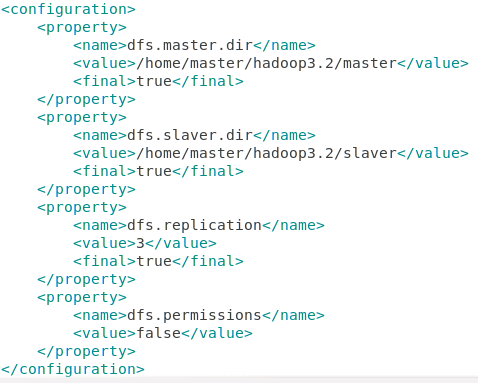
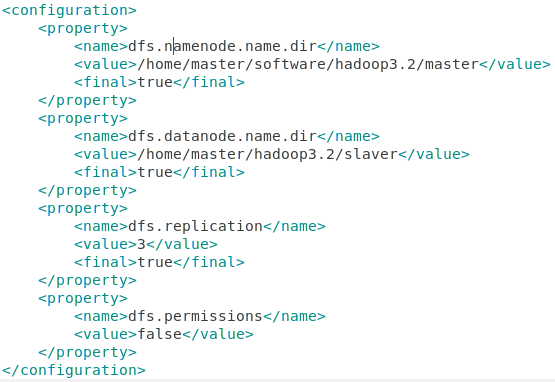
Site updated: 2019-06-28 14:39:27

Changed region(s): [[0.0, 0.0, 0.9958, 1.0], [0.5858, 0.9791, 1.0, 1.0]]

diff --git a/2019/06/24/VitualBox建三台虚拟机Ubuntu18-04试搭建Hadoop3-2-spark2-4/index.html b/2019/06/24/VitualBox建三台虚拟机Ubuntu18-04试搭建Hadoop3-2-spark2-4/index.html
@@ -25,6 +25,9 @@
 <meta property="og:image" content="http://JadenFK.github.io/2019/06/24/VitualBox建三台虚拟机Ubuntu18-04试搭建Hadoop3-2-spark2-4/4.jpg">
 <meta property="og:image" content="http://JadenFK.github.io/2019/06/24/VitualBox建三台虚拟机Ubuntu18-04试搭建Hadoop3-2-spark2-4/7.png">
 <meta property="og:image" content="http://JadenFK.github.io/2019/06/24/VitualBox建三台虚拟机Ubuntu18-04试搭建Hadoop3-2-spark2-4/5.jpg">
+<meta property="og:image" content="http://JadenFK.github.io/2019/06/24/VitualBox建三台虚拟机Ubuntu18-04试搭建Hadoop3-2-spark2-4/16.png">
+<meta property="og:image" content="http://JadenFK.github.io/2019/06/24/VitualBox建三台虚拟机Ubuntu18-04试搭建Hadoop3-2-spark2-4/7.jpg">
+<meta property="og:image" content="http://JadenFK.github.io/2019/06/24/VitualBox建三台虚拟机Ubuntu18-04试搭建Hadoop3-2-spark2-4/18.png">
 <meta property="og:image" content="http://JadenFK.github.io/2019/06/24/VitualBox建三台虚拟机Ubuntu18-04试搭建Hadoop3-2-spark2-4/8.png">
 <meta property="og:image" content="http://JadenFK.github.io/2019/06/24/VitualBox建三台虚拟机Ubuntu18-04试搭建Hadoop3-2-spark2-4/9.png">
 <meta property="og:image" content="http://JadenFK.github.io/2019/06/24/VitualBox建三台虚拟机Ubuntu18-04试搭建Hadoop3-2-spark2-4/6.jpg">
@@ -32,9 +35,19 @@
 <meta property="og:image" content="http://JadenFK.github.io/2019/06/24/VitualBox建三台虚拟机Ubuntu18-04试搭建Hadoop3-2-spark2-4/11.png">
 <meta property="og:image" content="http://JadenFK.github.io/2019/06/24/VitualBox建三台虚拟机Ubuntu18-04试搭建Hadoop3-2-spark2-4/12.png">
 <meta property="og:image" content="http://JadenFK.github.io/2019/06/24/VitualBox建三台虚拟机Ubuntu18-04试搭建Hadoop3-2-spark2-4/13.png">
+<meta property="og:image" content="http://JadenFK.github.io/2019/06/24/VitualBox建三台虚拟机Ubuntu18-04试搭建Hadoop3-2-spark2-4/17.png">
 <meta property="og:image" content="http://JadenFK.github.io/2019/06/24/VitualBox建三台虚拟机Ubuntu18-04试搭建Hadoop3-2-spark2-4/14.png">
 <meta property="og:image" content="http://JadenFK.github.io/2019/06/24/VitualBox建三台虚拟机Ubuntu18-04试搭建Hadoop3-2-spark2-4/15.png">
-<meta property="og:updated_time" content="2019-06-25T06:31:30.654Z">
+<meta property="og:image" content="http://JadenFK.github.io/2019/06/24/VitualBox建三台虚拟机Ubuntu18-04试搭建Hadoop3-2-spark2-4/19.png">
+<meta property="og:image" content="http://JadenFK.github.io/2019/06/24/VitualBox建三台虚拟机Ubuntu18-04试搭建Hadoop3-2-spark2-4/8.jpg">
+<meta property="og:image" content="http://JadenFK.github.io/2019/06/24/VitualBox建三台虚拟机Ubuntu18-04试搭建Hadoop3-2-spark2-4/20.png">
+<meta property="og:image" content="http://JadenFK.github.io/2019/06/24/VitualBox建三台虚拟机Ubuntu18-04试搭建Hadoop3-2-spark2-4/21.png">
+<meta property="og:image" content="http://JadenFK.github.io/2019/06/24/VitualBox建三台虚拟机Ubuntu18-04试搭建Hadoop3-2-spark2-4/9.jpg">
+<meta property="og:image" content="http://JadenFK.github.io/2019/06/24/VitualBox建三台虚拟机Ubuntu18-04试搭建Hadoop3-2-spark2-4/21.png">
+<meta property="og:image" content="http://JadenFK.github.io/2019/06/24/VitualBox建三台虚拟机Ubuntu18-04试搭建Hadoop3-2-spark2-4/23.png">
+<meta property="og:image" content="http://JadenFK.github.io/2019/06/24/VitualBox建三台虚拟机Ubuntu18-04试搭建Hadoop3-2-spark2-4/24.png">
+<meta property="og:image" content="http://JadenFK.github.io/2019/06/24/VitualBox建三台虚拟机Ubuntu18-04试搭建Hadoop3-2-spark2-4/25.png">
+<meta property="og:updated_time" content="2019-06-28T06:38:36.319Z">
 <meta name="twitter:card" content="summary">
 <meta name="twitter:title" content="VitualBox建三台虚拟机Ubuntu18.04试搭建Hadoop3.2+spark2.4">
 <meta name="twitter:description" content="由于条件限制，先在虚拟机上试安装Hadoop3.2+spark2.4安装虚拟机的心酸请看我另外一个博客：虚拟机VirtualBox-Ubuntu18.04和主机win10共享文件 里提到的这里装好了四台虚拟机，Master、Salver1、Slaver2、Slaver3，连接网络，结果四个虚拟机的Ip地址一样，这就尬了。找度娘要解决办法呗，首先修改了虚拟机网络的连接方式为：桥接网卡，如下">
@@ -144,7 +157,10 @@
 <p><img src="http://JadenFK.github.io/2019/06/24/VitualBox建三台虚拟机Ubuntu18-04试搭建Hadoop3-2-spark2-4/2.jpg" alt="2"><br>登录slaver1电脑查看是否拷贝过来了，然后把slaver1节点的ssh密钥加入到authorized_keys中去<br><img src="http://JadenFK.github.io/2019/06/24/VitualBox建三台虚拟机Ubuntu18-04试搭建Hadoop3-2-spark2-4/6.png" alt="6"></p>
 <h4 id="3-把电脑slaver1的authorized-keys拷贝到下个节点-slaver2-重复上面两步，接着slaver2拷贝到slaver3，把slaver3的ssh密钥加到authorized-keys"><a href="#3-把电脑slaver1的authorized-keys拷贝到下个节点-slaver2-重复上面两步，接着slaver2拷贝到slaver3，把slaver3的ssh密钥加到authorized-keys" class="headerlink" title="3  把电脑slaver1的authorized_keys拷贝到下个节点(slaver2)重复上面两步，接着slaver2拷贝到slaver3，把slaver3的ssh密钥加到authorized_keys"></a>3  把电脑slaver1的authorized_keys拷贝到下个节点(slaver2)重复上面两步，接着slaver2拷贝到slaver3，把slaver3的ssh密钥加到authorized_keys</h4><p><img src="http://JadenFK.github.io/2019/06/24/VitualBox建三台虚拟机Ubuntu18-04试搭建Hadoop3-2-spark2-4/3.jpg" alt="3"><br><img src="http://JadenFK.github.io/2019/06/24/VitualBox建三台虚拟机Ubuntu18-04试搭建Hadoop3-2-spark2-4/4.jpg" alt="4"><br><img src="http://JadenFK.github.io/2019/06/24/VitualBox建三台虚拟机Ubuntu18-04试搭建Hadoop3-2-spark2-4/7.png" alt="7"></p>
 <h4 id="4-把最终的slaver3的authorized-keys复制到master、slaver1、slaver2三台电脑上，Ok"><a href="#4-把最终的slaver3的authorized-keys复制到master、slaver1、slaver2三台电脑上，Ok" class="headerlink" title="4  把最终的slaver3的authorized_keys复制到master、slaver1、slaver2三台电脑上，Ok"></a>4  把最终的slaver3的authorized_keys复制到master、slaver1、slaver2三台电脑上，Ok</h4><p><img src="http://JadenFK.github.io/2019/06/24/VitualBox建三台虚拟机Ubuntu18-04试搭建Hadoop3-2-spark2-4/5.jpg" alt="5"></p>
-<h3 id="3-验证免密登录成功"><a href="#3-验证免密登录成功" class="headerlink" title="3 验证免密登录成功"></a>3 验证免密登录成功</h3><p>其中出现了”小插曲”,master连接slaver1、slaver2、slaver3都不行，需要输入密码，而三者连谁都行，不需要输入密码，然后百度找原因，有说authorized_keys的读写权限没有真的实现，要怎么怎么做，我去打开我的authorized_keys看了下，尼玛，两个slaver1的公钥，一个slaver2一个slaver3的公钥，没有master节点的公钥，明明第一个就加进去的master啊，咱也不知道，咱也不敢问，只能去打开master的id_rsa.pub，复制到每个电脑的authorized_keys里，Ok<br>还有就是警告：The authenticity of host 192.168.0.xxx can’t be established.<br>处理：打开/etc/ssh/ssh_config文件，在其后面加入下面两行代码，然后重启服务sshd</p>
+<h3 id="3-验证免密登录成功"><a href="#3-验证免密登录成功" class="headerlink" title="3 验证免密登录成功"></a>3 验证免密登录成功</h3><p><img src="http://JadenFK.github.io/2019/06/24/VitualBox建三台虚拟机Ubuntu18-04试搭建Hadoop3-2-spark2-4/16.png" alt="16"><br>此时登录需要ssh slaver1@Slaver1 即ssh  要登陆的主机的用户名@要登陆的主机名，若想直接ssh Slaver1 即ssh 要登陆的主机名则需要修改.ssh/config,若没有新建一个，如下</p>
+<table><td bgcolor="#000">sudo gedit .ssh/config </td></table>
+
+<p><img src="http://JadenFK.github.io/2019/06/24/VitualBox建三台虚拟机Ubuntu18-04试搭建Hadoop3-2-spark2-4/7.jpg" alt="7"><br><img src="http://JadenFK.github.io/2019/06/24/VitualBox建三台虚拟机Ubuntu18-04试搭建Hadoop3-2-spark2-4/18.png" alt="18"><br>其中出现了”小插曲”,master连接slaver1、slaver2、slaver3都不行，需要输入密码，而三者连谁都行，不需要输入密码，然后百度找原因，有说authorized_keys的读写权限没有真的实现，要怎么怎么做，我去打开我的authorized_keys看了下，尼玛，两个slaver1的公钥，一个slaver2一个slaver3的公钥，没有master节点的公钥，明明第一个就加进去的master啊，咱也不知道，咱也不敢问，只能去打开master的id_rsa.pub，复制到每个电脑的authorized_keys里，Ok<br>还有就是警告：The authenticity of host 192.168.0.xxx can’t be established.<br>处理：打开/etc/ssh/ssh_config文件，在其后面加入下面两行代码，然后重启服务sshd</p>
 <table><td bgcolor="#000">sudo gedit /etc/ssh/ssh_config    //打开ssh_config文件</td></table><br>    StrictHostKeyChecking no<br>    UserKnownHostsFile /dev/null<br><table><td bgcolor="#000">sudo service sshd restart  //重启sshd服务</td></table>
 
 <p><img src="http://JadenFK.github.io/2019/06/24/VitualBox建三台虚拟机Ubuntu18-04试搭建Hadoop3-2-spark2-4/8.png" alt="8"></p>
@@ -154,24 +170,47 @@
 
 <p><img src="http://JadenFK.github.io/2019/06/24/VitualBox建三台虚拟机Ubuntu18-04试搭建Hadoop3-2-spark2-4/6.jpg" alt="6"></p>
 <h3 id="配置Hadoop环境变量"><a href="#配置Hadoop环境变量" class="headerlink" title="配置Hadoop环境变量"></a>配置Hadoop环境变量</h3><p>配置的JDK环境变量不变，如下<br><img src="http://JadenFK.github.io/2019/06/24/VitualBox建三台虚拟机Ubuntu18-04试搭建Hadoop3-2-spark2-4/10.png" alt="10"><br>配置Hadoop环境变量，在JDK的环境变量下面添加即可<br><img src="http://JadenFK.github.io/2019/06/24/VitualBox建三台虚拟机Ubuntu18-04试搭建Hadoop3-2-spark2-4/11.png" alt="11"><br>可我看的书(Python+Spark2.0+Hadoop机器学习与大数据实战 林大贵著)上说是：运行Hadoop必须设置很多环境变量，可是如果每次登录时都必须重新设置就会很麻烦，因此我们可以在~/.bashrc文件中设置每次登录时都会自动运行一次环境变量设置。<br>我懵懵的，人家都在/etc/profile里设置，可他在~/.bashrc中设置，还有充分的理由，虽说我没太看懂这理由。然后百度了一下，说是<br>    在/etc/profile中配置的环境变量只会在会话开始读取一次<br>    而在/etc/bashrc中配置的环境变量则每次打开终端都会读取<br>我懂了，就是在/etc/profile文件中配置会出现问题，那我也写在/etc/bashrc中得了，还是书中自有黄金屋啊，书中代码，即我写入~/.bashrc的代码<br>    export JAVA_HOME=/home/master/software/jdk-11.0.3<br>    export HADOOP_HOME=/usr/local/hadoop<br>    export PATH=$PATH:$HADOOP_HOME/bin<br>    export PATH=$PATH:$HADOOP_HOME/sbin<br>    export HADOOP_MAPRED_HOME=$HADOOP_HOME<br>    export HADOOP_COMMON_HOME=$HADOOP_HOME<br>    export HADOOP_HDFS_HOME=$HADOOP_HOME<br>    export YARN_HOME=$HADOOP_HOME<br>    export HADOOP_COMMON_LIB_NATIVE_DIR=$HADOOP_HOME/lib/native<br>    export HADOOP_OPTS=”-Djava.library.path=$HADOOP_HOME/lib”<br>    export JAVA_LIBRARY_PATH=$HADOOP_HOME/lib/native:$JAVA_LIBRARY_PATH<br>    export PATH=$JAVA_HOME/bin:$PATH</p>
-<h2 id="第五步-修改usr-local-hadoop-etc-Hadoop下的Hadoop-env-sh、core-site-xml、hdfs-site-xml、mapred-site-xml、workers、yarn-site-xml六个"><a href="#第五步-修改usr-local-hadoop-etc-Hadoop下的Hadoop-env-sh、core-site-xml、hdfs-site-xml、mapred-site-xml、workers、yarn-site-xml六个" class="headerlink" title="第五步 修改usr/local/hadoop/etc/Hadoop下的Hadoop-env.sh、core-site.xml、hdfs-site.xml、mapred-site.xml、workers、yarn-site.xml六个"></a>第五步 修改usr/local/hadoop/etc/Hadoop下的Hadoop-env.sh、core-site.xml、hdfs-site.xml、mapred-site.xml、workers、yarn-site.xml六个</h2><p>我在博客上看到的都说是五个配置文件修改，有的少了yarn-site.xml有的少了hdoop-env.sh，这里我都配置一下，万一用到了其功能呢。但是还是要感谢博主和作者<br><a href="https://www.cnblogs.com/caiyisen/p/7373512.html" target="_blank" rel="noopener">https://www.cnblogs.com/caiyisen/p/7373512.html</a>  <a href="https://blog.csdn.net/u014636511/article/details/80171002" target="_blank" rel="noopener">https://blog.csdn.net/u014636511/article/details/80171002</a>  <a href="https://www.cnblogs.com/laov/p/3421479.html" target="_blank" rel="noopener">https://www.cnblogs.com/laov/p/3421479.html</a><br>hadoop-env.sh     添加Java安装的地址</p>
-<table><td bgcolor="#000">sudo gedit /usr/local/hadoop/etc/hadoop/hadoop-env.sh</td></table><br>export JAVA_HOME=/home/slaver2/softwarek-11.0.3<br>core-site.xml    fs.default.name：设置HDFS的默认名称   hadoop.tmp.dir：设置一个临时目录，用来存放每次运行的作业job的信息（书上没设置）<br><table><td bgcolor="#000">sudo gedit /usr/local/hadoop/etc/hadoop/core-site.xml</td></table>
+<h2 id="第五步-修改usr-local-hadoop-etc-Hadoop下的Hadoop-env-sh、core-site-xml、hdfs-site-xml、mapred-site-xml、workers、yarn-site-xml六个"><a href="#第五步-修改usr-local-hadoop-etc-Hadoop下的Hadoop-env-sh、core-site-xml、hdfs-site-xml、mapred-site-xml、workers、yarn-site-xml六个" class="headerlink" title="第五步 修改usr/local/hadoop/etc/Hadoop下的Hadoop-env.sh、core-site.xml、hdfs-site.xml、mapred-site.xml、workers、yarn-site.xml六个"></a>第五步 修改usr/local/hadoop/etc/Hadoop下的Hadoop-env.sh、core-site.xml、hdfs-site.xml、mapred-site.xml、workers、yarn-site.xml六个</h2><p>首先，每台虚拟机都要配置这几个文件，我在博客上看到的都说是五个配置文件修改，有的少了yarn-site.xml有的少了hdoop-env.sh，这里我都配置一下，万一用到了其功能呢。但是还是要感谢博主和作者<br><a href="https://www.cnblogs.com/caiyisen/p/7373512.html" target="_blank" rel="noopener">https://www.cnblogs.com/caiyisen/p/7373512.html</a>  <a href="https://blog.csdn.net/u014636511/article/details/80171002" target="_blank" rel="noopener">https://blog.csdn.net/u014636511/article/details/80171002</a>  <a href="https://www.cnblogs.com/laov/p/3421479.html" target="_blank" rel="noopener">https://www.cnblogs.com/laov/p/3421479.html</a><br>hadoop-env.sh     添加Java安装的地址</p>
+<table><td bgcolor="#000">sudo gedit /usr/local/hadoop/etc/hadoop/hadoop-env.sh</td></table><br>export JAVA_HOME=/home/master/software/jdk-11.0.3<br>core-site.xml    fs.default.name：设置HDFS的默认名称   hadoop.tmp.dir：设置一个临时目录，用来存放每次运行的作业job的信息（书上没设置）<br><table><td bgcolor="#000">sudo gedit /usr/local/hadoop/etc/hadoop/core-site.xml</td></table>
 
 <p><img src="http://JadenFK.github.io/2019/06/24/VitualBox建三台虚拟机Ubuntu18-04试搭建Hadoop3-2-spark2-4/12.png" alt="12"><br>hdfs-site.xml  dfs.replication:设置blocks副本数量，dfs.master.dir：设置master数据存储目录,会在master主机上创建，dfs.slaver.dir：设置slaver数据存储目录，会在slaver1、slaver2、slaver3从机上都创建</p>
 <table><td bgcolor="#000">sudo gedit /usr/local/hadoop/etc/hadoop/hdfs-site.xml</td></table>
 
-<p><img src="http://JadenFK.github.io/2019/06/24/VitualBox建三台虚拟机Ubuntu18-04试搭建Hadoop3-2-spark2-4/13.png" alt="13"><br>mapred-site.xml  mapreduce.framework.name:设置mapreduce的框架为yarn</p>
+<p><img src="http://JadenFK.github.io/2019/06/24/VitualBox建三台虚拟机Ubuntu18-04试搭建Hadoop3-2-spark2-4/13.png" alt="13"><br><img src="http://JadenFK.github.io/2019/06/24/VitualBox建三台虚拟机Ubuntu18-04试搭建Hadoop3-2-spark2-4/17.png" alt="17"><br>mapred-site.xml  mapreduce.framework.name:设置mapreduce的框架为yarn</p>
 <table><td bgcolor="#000">sudo gedit /usr/local/hadoop/etc/hadoop/mapred-site.xml</td></table>
 
 <p><img src="http://JadenFK.github.io/2019/06/24/VitualBox建三台虚拟机Ubuntu18-04试搭建Hadoop3-2-spark2-4/14.png" alt="14"><br>yarn-site.xml</p>
 <table><td bgcolor="#000">sudo gedit /usr/local/hadoop/etc/hadoop/mapred-site.xml</td></table>
 
 <p><img src="http://JadenFK.github.io/2019/06/24/VitualBox建三台虚拟机Ubuntu18-04试搭建Hadoop3-2-spark2-4/15.png" alt="15"></p>
+<p>workers  把三天从机的主机名加进来即可</p>
+<p>格式化namenode，并且启动集群</p>
+<table><td bgcolor="#000">hadoop namenode -format     //格式化namenode</td></table>
+
+<p><img src="http://JadenFK.github.io/2019/06/24/VitualBox建三台虚拟机Ubuntu18-04试搭建Hadoop3-2-spark2-4/19.png" alt="19"><br>启动集群，下面是一些启动的命令，</p>
+<p><table><td bgcolor="#000">start-all.sh //启动所有Hadoop守护进程，有NameNode、SecondaryNameNode、DataNode、ResourceManager、NodeManager</td></table></p>
+<p><table><td bgcolor="#000">stop-all.sh     //停止所有的Hadoop守护进程，即start-all.sh开启的</td></table></p>
+<p><table><td bgcolor="#000">start-dfs.sh     //启动Hadoop HDFS守护进程，有NameNode、SecondaNameNode、DataNode</td></table></p>
+<p><table><td bgcolor="#000">stop-dfs.sh     //停止Hadoop HDFS守护进程</td></table></p>
+<p><table><td bgcolor="#000">hdfs –daemon start namenode     //单独启动namenode进程</td></table></p>
+<p><table><td bgcolor="#000">hdfs –daemon stop namenode    //单独停止namenode进程</td></table></p>
+<p><table><td bgcolor="#000">hdfs –daemon start datanode     //单独启动datanode</td></table></p>
+<p><table><td bgcolor="#000">hdfs –daemon stop datanode     //单独停止datanode</td></table></p>
+<p><table><td bgcolor="#000">hdfs –daemon start secondarynamenode     //单独启动secondarynamenode</td></table></p>
+<p><table><td bgcolor="#000">hdfs –daemon stop secondarynamenode   //单独停止secondarynamenode</td></table></p>
+<p><table><td bgcolor="#000">start-yarn.sh     //启动ResourceManager、nodeManager进程</td></table></p>
+<p><table><td bgcolor="#000">stop-yarn.sh     //停止ResourceManager、nodeManager进程</td></table></p>
+<p><table><td bgcolor="#000">yarn -daemon start resourcemanager     //单独启动ResourceManager进程</td></table></p>
+<p><table><td bgcolor="#000">yarn -daemon stop resourcemanager     //单独停止ResourceManager进程</td></table></p>
+<p><table><td bgcolor="#000">yarn -daemon start nodemanager  //单独启动nodeManager进程</td></table></p>
+<p><table><td bgcolor="#000">yarn -daemon stop nodemanager     //单独停止nodeManager进程</td></table><br>版本2的有所不同，请看下面的博客，感谢博主 <a href="https://www.cnblogs.com/xym4869/p/8821312.html" target="_blank" rel="noopener">https://www.cnblogs.com/xym4869/p/8821312.html</a><br>修改start-dfs.sh、start-yarn.sh、stop-dfs.sh、stop-yarn.sh<br>这一步不用修改了，在百度上有的修改是因为一开始配置Hadoop都是用的root用户，所以需要在start-dfs.sh和stop-dfs.sh前面加上<br>HDFS_DATANODE_USER=root<br>HADOOP_SECURE_DN_USER=hdfs<br>HDFS_NAMENODE_USER=root<br>HDFS_SECONDARYNAMENODE_USER=root<br>在start-yarn.sh和stop-yarn.sh前面加上<br>YARN_RESOURCEMANAGER_USER=root<br>HADOOP_SECURE_DN_USER=yarn<br>YARN_NODEMANAGER_USER=root<br>结果start-all.sh后，没有ResourceManager、NodeManager进程，急死了，搞了好长时间，去查看日志，发现</p>
+<p><img src="http://JadenFK.github.io/2019/06/24/VitualBox建三台虚拟机Ubuntu18-04试搭建Hadoop3-2-spark2-4/8.jpg" alt="8"><br>百度到原因，JDK版本太高，某些java的API被禁什么玩意的，解决方法有二，<br>一：修改/etc/hadoop/yarn-env.sh<br>export YARN_RESOURCEMANAGER_OPTS=”–add-modules=ALL-SYSTEM”<br>export YARN_NODEMANAGER_OPTS=”–add-modules=ALL-SYSTEM”<br>二：下载JDK8，把JDK11换成JDK8<br>我肯定首先修改配置文件啊，这比换JDK简单点，但是…..不行，无奈之下去下载JDK8，这时候下载JDK还需要注册Oracle的账号，没办法，注册吧<br>然后下载JDK，更换四个节点的JDK，很激动，应该可以了吧，这次不能再出事了吧，启动着，先去厕所。。。。回来之后，很激动的jps，尼玛，还是没有，打开日志文件，又Error<br><img src="http://JadenFK.github.io/2019/06/24/VitualBox建三台虚拟机Ubuntu18-04试搭建Hadoop3-2-spark2-4/20.png" alt="20"><br>找解决办法吧，也没招啊，感谢下面两个作者<br><a href="http://www.pianshen.com/article/7314336061/" target="_blank" rel="noopener">http://www.pianshen.com/article/7314336061/</a>      <a href="https://inote.xin/182.html" target="_blank" rel="noopener">https://inote.xin/182.html</a><br>只能把四个节点的Hadoop删掉，重新配置<br>然后再start-all.sh，老天爷不能再错了吧。。。。。。。。。。。唉，皇天不负有心人啊，搞了一个多周的Hadoop+spark搭建，终于完成了Hadoop的搭建，醉了，这个JDK啊<br>解决上述错误期间，还把Hadoop的配置改了改，大概按照书上的改的，具体如下<br>Master<br>hadoop-env.sh<br>export JAVA_HOME=/home/master/software/jdk1.8.0_211<br>core-site.xml 没改变<br>hdfs-site.xml<br><img src="http://JadenFK.github.io/2019/06/24/VitualBox建三台虚拟机Ubuntu18-04试搭建Hadoop3-2-spark2-4/21.png" alt="21"><br>mapred-site.xml 没改变<br>yarn-site.xml<br><img src="http://JadenFK.github.io/2019/06/24/VitualBox建三台虚拟机Ubuntu18-04试搭建Hadoop3-2-spark2-4/9.jpg" alt="9"><br>workers 没改变</p>
+<p>Slaver1-3<br>hadoop-env.sh<br>export JAVA_HOME=/home/slaver1/software/jdk1.8.0_211        slaver后的数字随节点变<br>core-site.xml<br><img src="http://JadenFK.github.io/2019/06/24/VitualBox建三台虚拟机Ubuntu18-04试搭建Hadoop3-2-spark2-4/21.png" alt="22"><br>hdfs-site.xml<br><img src="http://JadenFK.github.io/2019/06/24/VitualBox建三台虚拟机Ubuntu18-04试搭建Hadoop3-2-spark2-4/23.png" alt="23"><br>mapred-site.xml<br><img src="http://JadenFK.github.io/2019/06/24/VitualBox建三台虚拟机Ubuntu18-04试搭建Hadoop3-2-spark2-4/24.png" alt="24"><br>yarn-site.xml<br><img src="http://JadenFK.github.io/2019/06/24/VitualBox建三台虚拟机Ubuntu18-04试搭建Hadoop3-2-spark2-4/25.png" alt="25"><br>workers 添加上另外三个计算机的名即可</p>
 
       
     </div>
     <footer class="article-footer">
-      <a data-url="http://yoursite.com/2019/06/24/VitualBox建三台虚拟机Ubuntu18-04试搭建Hadoop3-2-spark2-4/" data-id="cjxbfmppv001grk7kaxj4ib8q" class="article-share-link">分享</a>
+      <a data-url="http://yoursite.com/2019/06/24/VitualBox建三台虚拟机Ubuntu18-04试搭建Hadoop3-2-spark2-4/" data-id="cjxfq76sc001atg7kfpclg80r" class="article-share-link">分享</a>
       
       
   <ul class="article-tag-list"><li class="article-tag-list-item"><a class="article-tag-list-link" href="/tags/Hadoop/">Hadoop</a></li></ul>

diff --git a/page/2/index.html b/page/2/index.html
@@ -118,7 +118,7 @@
       
     </div>
     <footer class="article-footer">
-      <a data-url="http://yoursite.com/2019/03/02/Mybatis-多表连接异常-There-is-no-getter-for-property-named-vg-province-production-in-com-edu-cau-orm-VgProvinceProduction/" data-id="cjxbfmpov0009rk7kjilqmoek" class="article-share-link">分享</a>
+      <a data-url="http://yoursite.com/2019/03/02/Mybatis-多表连接异常-There-is-no-getter-for-property-named-vg-province-production-in-com-edu-cau-orm-VgProvinceProduction/" data-id="cjxfq76pv000ctg7kpyqnfkhm" class="article-share-link">分享</a>
       
       
   <ul class="article-tag-list"><li class="article-tag-list-item"><a class="article-tag-list-link" href="/tags/SSM/">SSM</a></li></ul>
@@ -173,7 +173,7 @@
       
     </div>
     <footer class="article-footer">
-      <a data-url="http://yoursite.com/2019/03/02/MySql远程连接，1045-Access-denied-for-user-root-DESKTOP-I7JQRSH-using-password-YES/" data-id="cjxbfmpon0005rk7k7okj7e8n" class="article-share-link">分享</a>
+      <a data-url="http://yoursite.com/2019/03/02/MySql远程连接，1045-Access-denied-for-user-root-DESKTOP-I7JQRSH-using-password-YES/" data-id="cjxfq76pl0009tg7khh8079wq" class="article-share-link">分享</a>
       
       
   <ul class="article-tag-list"><li class="article-tag-list-item"><a class="article-tag-list-link" href="/tags/MySql/">MySql</a></li></ul>
@@ -228,7 +228,7 @@
       
     </div>
     <footer class="article-footer">
-      <a data-url="http://yoursite.com/2019/01/17/eclipse-hibernate逆向生成-java、Dao、-hbm-xml/" data-id="cjxbfmpp7000qrk7krvi25rdc" class="article-share-link">分享</a>
+      <a data-url="http://yoursite.com/2019/01/17/eclipse-hibernate逆向生成-java、Dao、-hbm-xml/" data-id="cjxfq76qx000ntg7ksh1hay7u" class="article-share-link">分享</a>
       
       
   <ul class="article-tag-list"><li class="article-tag-list-item"><a class="article-tag-list-link" href="/tags/eclipse/">eclipse</a></li></ul>
@@ -283,7 +283,7 @@
       
     </div>
     <footer class="article-footer">
-      <a data-url="http://yoursite.com/2019/01/17/import了项目后eclipse第一次配置Tomcat/" data-id="cjxbfmpp9000srk7k0vik3gmf" class="article-share-link">分享</a>
+      <a data-url="http://yoursite.com/2019/01/17/import了项目后eclipse第一次配置Tomcat/" data-id="cjxfq76r1000qtg7kzan1aau1" class="article-share-link">分享</a>
       
       
   <ul class="article-tag-list"><li class="article-tag-list-item"><a class="article-tag-list-link" href="/tags/eclipse/">eclipse</a></li></ul>
@@ -338,7 +338,7 @@
       
     </div>
     <footer class="article-footer">
-      <a data-url="http://yoursite.com/2019/01/15/整MyBatis逆向工程时遇见一个气死人的小问题/" data-id="cjxbfmppf000yrk7kvuxcseii" class="article-share-link">分享</a>
+      <a data-url="http://yoursite.com/2019/01/15/整MyBatis逆向工程时遇见一个气死人的小问题/" data-id="cjxfq76ro000xtg7kekhs1kz2" class="article-share-link">分享</a>
       
       
   <ul class="article-tag-list"><li class="article-tag-list-item"><a class="article-tag-list-link" href="/tags/SSM/">SSM</a></li></ul>
@@ -394,7 +394,7 @@
       
     </div>
     <footer class="article-footer">
-      <a data-url="http://yoursite.com/2019/01/08/Tomcat-端口占用问题/" data-id="cjxbfmpoy000crk7kpay3yqj6" class="article-share-link">分享</a>
+      <a data-url="http://yoursite.com/2019/01/08/Tomcat-端口占用问题/" data-id="cjxfq76ph0007tg7k54o0ains" class="article-share-link">分享</a>
       
       
   <ul class="article-tag-list"><li class="article-tag-list-item"><a class="article-tag-list-link" href="/tags/Java/">Java</a></li></ul>
@@ -451,7 +451,7 @@
       
     </div>
     <footer class="article-footer">
-      <a data-url="http://yoursite.com/2018/12/27/SVN的搭建/" data-id="cjxbfmpoq0007rk7kbimprb64" class="article-share-link">分享</a>
+      <a data-url="http://yoursite.com/2018/12/27/SVN的搭建/" data-id="cjxfq76pe0006tg7ky0jbmne9" class="article-share-link">分享</a>
       
       
   <ul class="article-tag-list"><li class="article-tag-list-item"><a class="article-tag-list-link" href="/tags/版本控制工具/">版本控制工具</a></li></ul>
@@ -508,7 +508,7 @@
       
     </div>
     <footer class="article-footer">
-      <a data-url="http://yoursite.com/2018/12/22/在Github上速搭建你自己的博客，让自己拥有一个网站吧/" data-id="cjxbfmppe000xrk7ke9e407aa" class="article-share-link">分享</a>
+      <a data-url="http://yoursite.com/2018/12/22/在Github上速搭建你自己的博客，让自己拥有一个网站吧/" data-id="cjxfq76rq000ytg7kzq2xuvmm" class="article-share-link">分享</a>
       
       
   <ul class="article-tag-list"><li class="article-tag-list-item"><a class="article-tag-list-link" href="/tags/github/">github</a></li></ul>
@@ -565,7 +565,7 @@
       
     </div>
     <footer class="article-footer">
-      <a data-url="http://yoursite.com/2018/12/22/搭建博客问题总结/" data-id="cjxbfmppg0010rk7ks9ydzrx0" class="article-share-link">分享</a>
+      <a data-url="http://yoursite.com/2018/12/22/搭建博客问题总结/" data-id="cjxfq76s20011tg7kcau7hfi3" class="article-share-link">分享</a>
       
       
   <ul class="article-tag-list"><li class="article-tag-list-item"><a class="article-tag-list-link" href="/tags/github/">github</a></li></ul>
@@ -623,7 +623,7 @@
       
     </div>
     <footer class="article-footer">
-      <a data-url="http://yoursite.com/2018/12/19/hello-world/" data-id="cjxbfmpp5000lrk7kb1bo74ss" class="article-share-link">分享</a>
+      <a data-url="http://yoursite.com/2018/12/19/hello-world/" data-id="cjxfq76re000utg7kiz4v9a75" class="article-share-link">分享</a>
       
       
     </footer>

diff --git a/index.html b/index.html
@@ -118,7 +118,7 @@
       
     </div>
     <footer class="article-footer">
-      <a data-url="http://yoursite.com/2019/06/24/VitualBox建三台虚拟机Ubuntu18-04试搭建Hadoop3-2-spark2-4/" data-id="cjxbfmppv001grk7kaxj4ib8q" class="article-share-link">分享</a>
+      <a data-url="http://yoursite.com/2019/06/24/VitualBox建三台虚拟机Ubuntu18-04试搭建Hadoop3-2-spark2-4/" data-id="cjxfq76sc001atg7kfpclg80r" class="article-share-link">分享</a>
       
       
   <ul class="article-tag-list"><li class="article-tag-list-item"><a class="article-tag-list-link" href="/tags/Hadoop/">Hadoop</a></li></ul>
@@ -174,7 +174,7 @@
       
     </div>
     <footer class="article-footer">
-      <a data-url="http://yoursite.com/2019/06/21/虚拟机VirtualBox-Ubuntu18-04和主机win10共享文件/" data-id="cjxbfmppj0015rk7keot45rif" class="article-share-link">分享</a>
+      <a data-url="http://yoursite.com/2019/06/21/虚拟机VirtualBox-Ubuntu18-04和主机win10共享文件/" data-id="cjxfq76s40013tg7k0u8ppecm" class="article-share-link">分享</a>
       
       
   <ul class="article-tag-list"><li class="article-tag-list-item"><a class="article-tag-list-link" href="/tags/Linux/">Linux</a></li></ul>
@@ -229,7 +229,7 @@
       
     </div>
     <footer class="article-footer">
-      <a data-url="http://yoursite.com/2019/06/19/Ubuntu-删除用户/" data-id="cjxbfmpp3000grk7ka00fbjnw" class="article-share-link">分享</a>
+      <a data-url="http://yoursite.com/2019/06/19/Ubuntu-删除用户/" data-id="cjxfq76ps000btg7krhtwlsrt" class="article-share-link">分享</a>
       
       
   <ul class="article-tag-list"><li class="article-tag-list-item"><a class="article-tag-list-link" href="/tags/Linux/">Linux</a></li></ul>
@@ -287,7 +287,7 @@
       
     </div>
     <footer class="article-footer">
-      <a data-url="http://yoursite.com/2019/06/14/Ubunt18-0-4安装Mysql及Navicat/" data-id="cjxbfmpp0000drk7k13m0tu6z" class="article-share-link">分享</a>
+      <a data-url="http://yoursite.com/2019/06/14/Ubunt18-0-4安装Mysql及Navicat/" data-id="cjxfq76q0000ftg7kcb3vxigj" class="article-share-link">分享</a>
       
       
   <ul class="article-tag-list"><li class="article-tag-list-item"><a class="article-tag-list-link" href="/tags/Linux/">Linux</a></li></ul>
@@ -344,7 +344,7 @@
       
     </div>
     <footer class="article-footer">
-      <a data-url="http://yoursite.com/2019/06/13/Linux系统-Ubuntu-18-04-LTS-安装软件后锁定到启动器/" data-id="cjxbfmpoh0002rk7kcups1s9j" class="article-share-link">分享</a>
+      <a data-url="http://yoursite.com/2019/06/13/Linux系统-Ubuntu-18-04-LTS-安装软件后锁定到启动器/" data-id="cjxfq76lq0000tg7kwp97qk7f" class="article-share-link">分享</a>
       
       
   <ul class="article-tag-list"><li class="article-tag-list-item"><a class="article-tag-list-link" href="/tags/Linux/">Linux</a></li></ul>
@@ -399,7 +399,7 @@
       
     </div>
     <footer class="article-footer">
-      <a data-url="http://yoursite.com/2019/06/11/台式机装双系统-win10-Ubuntu-恶心到死/" data-id="cjxbfmpp6000nrk7kthgzbbym" class="article-share-link">分享</a>
+      <a data-url="http://yoursite.com/2019/06/11/台式机装双系统-win10-Ubuntu-恶心到死/" data-id="cjxfq76s90017tg7knivbcego" class="article-share-link">分享</a>
       
       
   <ul class="article-tag-list"><li class="article-tag-list-item"><a class="article-tag-list-link" href="/tags/Linux/">Linux</a></li></ul>
@@ -454,7 +454,7 @@
       
     </div>
     <footer class="article-footer">
-      <a data-url="http://yoursite.com/2019/04/02/由于改了电脑用户名，chrome碰到的坑/" data-id="cjxbfmpph0012rk7k3zqk9gdr" class="article-share-link">分享</a>
+      <a data-url="http://yoursite.com/2019/04/02/由于改了电脑用户名，chrome碰到的坑/" data-id="cjxfq76s70015tg7kfswx70vk" class="article-share-link">分享</a>
       
       
   <ul class="article-tag-list"><li class="article-tag-list-item"><a class="article-tag-list-link" href="/tags/chrome/">chrome</a></li></ul>
@@ -509,7 +509,7 @@
       
     </div>
     <footer class="article-footer">
-      <a data-url="http://yoursite.com/2019/04/02/chromedriver小坑/" data-id="cjxbfmpp4000irk7kus7husym" class="article-share-link">分享</a>
+      <a data-url="http://yoursite.com/2019/04/02/chromedriver小坑/" data-id="cjxfq76qt000ltg7klrhy7e4d" class="article-share-link">分享</a>
       
       
   <ul class="article-tag-list"><li class="article-tag-list-item"><a class="article-tag-list-link" href="/tags/chrome/">chrome</a></li></ul>
@@ -564,7 +564,7 @@
       
     </div>
     <footer class="article-footer">
-      <a data-url="http://yoursite.com/2019/03/06/“返回”按钮惹的“祸“祸”/" data-id="cjxbfmppd000urk7ku81evhmj" class="article-share-link">分享</a>
+      <a data-url="http://yoursite.com/2019/03/06/“返回”按钮惹的“祸“祸”/" data-id="cjxfq76ra000stg7kcwezn4in" class="article-share-link">分享</a>
       
       
   <ul class="article-tag-list"><li class="article-tag-list-item"><a class="article-tag-list-link" href="/tags/JS-easyUI/">JS/easyUI</a></li></ul>
@@ -619,7 +619,7 @@
       
     </div>
     <footer class="article-footer">
-      <a data-url="http://yoursite.com/2019/03/03/HTTP-Status-500-Internal-Server-Error/" data-id="cjxbfmpob0000rk7k0snfmm8c" class="article-share-link">分享</a>
+      <a data-url="http://yoursite.com/2019/03/03/HTTP-Status-500-Internal-Server-Error/" data-id="cjxfq76mp0003tg7k9yiihs4l" class="article-share-link">分享</a>
       
       
   <ul class="article-tag-list"><li class="article-tag-list-item"><a class="article-tag-list-link" href="/tags/Java/">Java</a></li></ul>

diff --git a/2019/03/02/Mybatis-多表连接异常-There-is-no-getter-for-property-named-vg-province-production-in-com-edu-cau-orm-VgProvinceProduction/index.html b/2019/03/02/Mybatis-多表连接异常-There-is-no-getter-for-property-named-vg-province-production-in-com-edu-cau-orm-VgProvinceProduction/index.html
@@ -118,7 +118,7 @@
       
     </div>
     <footer class="article-footer">
-      <a data-url="http://yoursite.com/2019/03/02/Mybatis-多表连接异常-There-is-no-getter-for-property-named-vg-province-production-in-com-edu-cau-orm-VgProvinceProduction/" data-id="cjxbfmpov0009rk7kjilqmoek" class="article-share-link">分享</a>
+      <a data-url="http://yoursite.com/2019/03/02/Mybatis-多表连接异常-There-is-no-getter-for-property-named-vg-province-production-in-com-edu-cau-orm-VgProvinceProduction/" data-id="cjxfq76pv000ctg7kpyqnfkhm" class="article-share-link">分享</a>
       
       
   <ul class="article-tag-list"><li class="article-tag-list-item"><a class="article-tag-list-link" href="/tags/SSM/">SSM</a></li></ul>

diff --git a/2019/03/02/MySql远程连接，1045-Access-denied-for-user-root-DESKTOP-I7JQRSH-using-password-YES/index.html b/2019/03/02/MySql远程连接，1045-Access-denied-for-user-root-DESKTOP-I7JQRSH-using-password-YES/index.html
@@ -120,7 +120,7 @@
       
     </div>
     <footer class="article-footer">
-      <a data-url="http://yoursite.com/2019/03/02/MySql远程连接，1045-Access-denied-for-user-root-DESKTOP-I7JQRSH-using-password-YES/" data-id="cjxbfmpon0005rk7k7okj7e8n" class="article-share-link">分享</a>
+      <a data-url="http://yoursite.com/2019/03/02/MySql远程连接，1045-Access-denied-for-user-root-DESKTOP-I7JQRSH-using-password-YES/" data-id="cjxfq76pl0009tg7khh8079wq" class="article-share-link">分享</a>
       
       
   <ul class="article-tag-list"><li class="article-tag-list-item"><a class="article-tag-list-link" href="/tags/MySql/">MySql</a></li></ul>

diff --git a/2018/12/22/在Github上速搭建你自己的博客，让自己拥有一个网站吧/index.html b/2018/12/22/在Github上速搭建你自己的博客，让自己拥有一个网站吧/index.html
@@ -137,7 +137,7 @@
       
     </div>
     <footer class="article-footer">
-      <a data-url="http://yoursite.com/2018/12/22/在Github上速搭建你自己的博客，让自己拥有一个网站吧/" data-id="cjxbfmppe000xrk7ke9e407aa" class="article-share-link">分享</a>
+      <a data-url="http://yoursite.com/2018/12/22/在Github上速搭建你自己的博客，让自己拥有一个网站吧/" data-id="cjxfq76rq000ytg7kzq2xuvmm" class="article-share-link">分享</a>
       
       
   <ul class="article-tag-list"><li class="article-tag-list-item"><a class="article-tag-list-link" href="/tags/github/">github</a></li></ul>

diff --git a/2019/06/13/Linux系统-Ubuntu-18-04-LTS-安装软件后锁定到启动器/index.html b/2019/06/13/Linux系统-Ubuntu-18-04-LTS-安装软件后锁定到启动器/index.html
@@ -127,7 +127,7 @@
       
     </div>
     <footer class="article-footer">
-      <a data-url="http://yoursite.com/2019/06/13/Linux系统-Ubuntu-18-04-LTS-安装软件后锁定到启动器/" data-id="cjxbfmpoh0002rk7kcups1s9j" class="article-share-link">分享</a>
+      <a data-url="http://yoursite.com/2019/06/13/Linux系统-Ubuntu-18-04-LTS-安装软件后锁定到启动器/" data-id="cjxfq76lq0000tg7kwp97qk7f" class="article-share-link">分享</a>
       
       
   <ul class="article-tag-list"><li class="article-tag-list-item"><a class="article-tag-list-link" href="/tags/Linux/">Linux</a></li></ul>

diff --git a/2019/06/21/虚拟机VirtualBox-Ubuntu18-04和主机win10共享文件/index.html b/2019/06/21/虚拟机VirtualBox-Ubuntu18-04和主机win10共享文件/index.html
@@ -125,7 +125,7 @@
       
     </div>
     <footer class="article-footer">
-      <a data-url="http://yoursite.com/2019/06/21/虚拟机VirtualBox-Ubuntu18-04和主机win10共享文件/" data-id="cjxbfmppj0015rk7keot45rif" class="article-share-link">分享</a>
+      <a data-url="http://yoursite.com/2019/06/21/虚拟机VirtualBox-Ubuntu18-04和主机win10共享文件/" data-id="cjxfq76s40013tg7k0u8ppecm" class="article-share-link">分享</a>
       
       
   <ul class="article-tag-list"><li class="article-tag-list-item"><a class="article-tag-list-link" href="/tags/Linux/">Linux</a></li></ul>

diff --git a/2019/01/15/整MyBatis逆向工程时遇见一个气死人的小问题/index.html b/2019/01/15/整MyBatis逆向工程时遇见一个气死人的小问题/index.html
@@ -119,7 +119,7 @@
       
     </div>
     <footer class="article-footer">
-      <a data-url="http://yoursite.com/2019/01/15/整MyBatis逆向工程时遇见一个气死人的小问题/" data-id="cjxbfmppf000yrk7kvuxcseii" class="article-share-link">分享</a>
+      <a data-url="http://yoursite.com/2019/01/15/整MyBatis逆向工程时遇见一个气死人的小问题/" data-id="cjxfq76ro000xtg7kekhs1kz2" class="article-share-link">分享</a>
       
       
   <ul class="article-tag-list"><li class="article-tag-list-item"><a class="article-tag-list-link" href="/tags/SSM/">SSM</a></li></ul>

diff --git a/2019/01/17/eclipse-hibernate逆向生成-java、Dao、-hbm-xml/index.html b/2019/01/17/eclipse-hibernate逆向生成-java、Dao、-hbm-xml/index.html
@@ -136,7 +136,7 @@
       
     </div>
     <footer class="article-footer">
-      <a data-url="http://yoursite.com/2019/01/17/eclipse-hibernate逆向生成-java、Dao、-hbm-xml/" data-id="cjxbfmpp7000qrk7krvi25rdc" class="article-share-link">分享</a>
+      <a data-url="http://yoursite.com/2019/01/17/eclipse-hibernate逆向生成-java、Dao、-hbm-xml/" data-id="cjxfq76qx000ntg7ksh1hay7u" class="article-share-link">分享</a>
       
       
   <ul class="article-tag-list"><li class="article-tag-list-item"><a class="article-tag-list-link" href="/tags/eclipse/">eclipse</a></li></ul>

diff --git a/2019/04/02/由于改了电脑用户名，chrome碰到的坑/index.html b/2019/04/02/由于改了电脑用户名，chrome碰到的坑/index.html
@@ -119,7 +119,7 @@
       
     </div>
     <footer class="article-footer">
-      <a data-url="http://yoursite.com/2019/04/02/由于改了电脑用户名，chrome碰到的坑/" data-id="cjxbfmpph0012rk7k3zqk9gdr" class="article-share-link">分享</a>
+      <a data-url="http://yoursite.com/2019/04/02/由于改了电脑用户名，chrome碰到的坑/" data-id="cjxfq76s70015tg7kfswx70vk" class="article-share-link">分享</a>
       
       
   <ul class="article-tag-list"><li class="article-tag-list-item"><a class="article-tag-list-link" href="/tags/chrome/">chrome</a></li></ul>

diff --git a/2019/01/17/import了项目后eclipse第一次配置Tomcat/index.html b/2019/01/17/import了项目后eclipse第一次配置Tomcat/index.html
@@ -118,7 +118,7 @@
       
     </div>
     <footer class="article-footer">
-      <a data-url="http://yoursite.com/2019/01/17/import了项目后eclipse第一次配置Tomcat/" data-id="cjxbfmpp9000srk7k0vik3gmf" class="article-share-link">分享</a>
+      <a data-url="http://yoursite.com/2019/01/17/import了项目后eclipse第一次配置Tomcat/" data-id="cjxfq76r1000qtg7kzan1aau1" class="article-share-link">分享</a>
       
       
   <ul class="article-tag-list"><li class="article-tag-list-item"><a class="article-tag-list-link" href="/tags/eclipse/">eclipse</a></li></ul>
